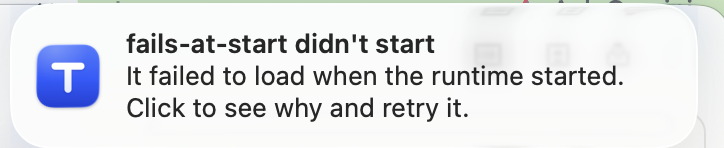
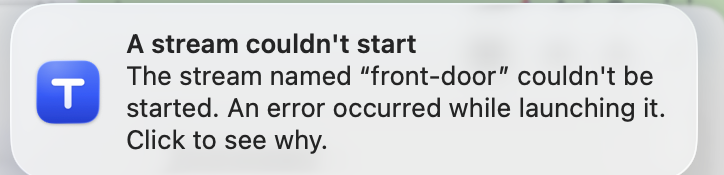
docs(proof): the plain-sentence notifications, re-verified on the installed build and the real Linux runtime

Changed region(s): [[0.0, 0.0, 1.0, 1.0], [0.0608, 0.4054, 0.1215, 0.5135]]

diff --git a/proof/README.md b/proof/README.md
@@ -25,15 +25,19 @@ Only these results count for #41. They come from the real app on a real v0.55.2 
 | Restart runtime restarts it through the service manager, and the state follows | **PASS**: launchd pid 14893 → 17828; window "up 1m" → Starting → "up less than a minute"; the runtime's uptime 1m → 0m (`04`) | **PASS**: MainPID 3785 → 4024 through `systemctl --user restart`; window "up 1m" → Starting → "up less than a minute" (`22`, `23`) |
 | Run Tatolab off stops and deregisters the runtime; on brings it back | **PASS**: off — window "Stopped", `launchctl print` no longer finds the job, nothing answers, Restart and Open logs folder disabled (`05`); on — Starting → Running, the job back under Service Management | **PASS**: off — `disabled/inactive`, Restart disabled (`24`); on — `enabled/active` |
 | Open Tatolab at login | **PASS** on the switch: on adds Tatolab to macOS's login items (System Events: "Elgato Wave Link, Rectangle, Tatolab", `06`), off removes it. **NOT VERIFIED:** the app actually opening at the next login, which needs a log-out | **NOT VERIFIED**: an unpackaged app does not offer it, and the Linux packages build on x86_64 only |
-| A stream failing notifies in plain words | **PASS**: a kept sample stream, its `.venv` moved aside, then Restart runtime pressed. The runtime listed it failed ("…its interpreter …/.venv/bin/python is gone…"); the banner read "fails-at-start didn't start — It failed to load when the runtime started. Click to see why and retry it." (`07`) | **PASS**: the same failure; dunst drew "(A) fails-at-start didn't start — It failed to load when the runtime started. Click to see why and retry it." (`26`) |
+| A stream failing notifies in plain sentences | **PASS**: a kept sample stream, its `.venv` moved aside, then Restart runtime pressed. The runtime listed it failed ("…its interpreter …/.venv/bin/python is gone…"); the banner read "A stream couldn't start — The stream named “front-door” couldn't be started. An error occurred while launching it. Click to see why." (`07`) | **PASS**: the same failure; dunst drew "(A) A stream couldn't start — The stream named “fails-at-start” couldn't be started. An error occurred while launching it. Click to see why." (`26`) |
 | Clicking it opens the stream, with the runtime's reason there | **PASS**: pressing it in Notification Center opened `fails-at-start`'s page, Failed, with the runtime's reason in its own words and Retry (`08`) | **PASS**: a real X middle-click (dunst's default action) opened its page (`28`) |
+| An update check chosen from the tray notifies in plain sentences | **PASS**: Check for Updates… chosen in the menu bar against get.tatolab.com (newest 0.54.11); the app logged `checking` → `up_to_date`, and Notification Center held "Tatolab is up to date — You have the newest version." No banner was caught on screen. **NOT VERIFIED live:** the failed-update notification, which needs a real update to fail | not run |
 | With the switch off, a failure doesn't notify | **PASS**: the same failure, 0 Tatolab notifications; with the switch back on, the repeat gave 1 | **PASS**: the app's notifications in dunst stayed 2 → 2 |
 | Appearance: Light, Dark and System, live, and kept | **PASS**: the window's mean luminance was 254 for Light and 13 for Dark (`09`); System followed macOS Light → Dark → Light live (`10`); Dark held after Quit and reopen (`11`) | **PASS** for Dark live and kept across a reload. **NOT VERIFIED:** System following the desktop (Xvfb has no colour-scheme source) |
 | Command line: the `tatolab` path and its version; `tatolab mcp` | **PASS**: `/usr/local/bin/tatolab` → the bundle's `tatolab-cli` 0.55.2 (`02`); `tatolab mcp` served the runtime's 17 tools, `describe_runtime` among them | **PASS**: `~/.local/bin/tatolab`, 0.55.2 (`25`) |
 | About: both versions, the runtime's licence | **PASS**: "Version 0.55.2 · tatolabd 0.55.2", "Runtime licensed BUSL-1.1." (`03`) | **PASS**: "Version 0.45.0 · tatolabd 0.55.2" (the unpackaged app takes `package.json`'s version) |
 
 **Found by this verification:**
-- **Fixed, at the owner's word:** the notification's body was the runtime's whole `failed_because`, a sentence written for logs. It now says the stream didn't start and to click for why. The stream's page it opens shows the runtime's reason as the runtime wrote it. Re-verified on both platforms with the rebuilt, notarized app.
+- **Fixed, at the owner's word:** every notification is now plain sentences for a person, never the runtime's or the updater's words.
+  - A failed stream reads "A stream couldn't start — The stream named “<name>” couldn't be started. An error occurred while launching it. Click to see why." The stream's page it opens shows the runtime's reason as the runtime wrote it.
+  - A failed update reads "Tatolab couldn't update — Something went wrong while updating. Open Settings to see what happened and try again." The updater's own words are in Settings.
+  - Re-verified on both platforms with the rebuilt, notarized app.
 - **Seen while reinstalling, not a defect of this PR:** reinstalling a build with the same version (0.55.2 over 0.55.2) leaves the runtime running from the replaced bundle, since the app restarts it only when its version changes. The runtime then refused a helper from the newer wheel: "engine build … but its parent is engine build …". Restart runtime fixed it, moving the build id from `…6440…` to `…eb87…`. Releases always change the version.
 - **Fixed:** with Run Tatolab off, the Login Items row said Tatolab was "listed under Allow in the Background" though launchd held no job. It now says Tatolab isn't listed. The rebuilt app was installed and the row re-checked.
 - **Runtime behaviour, not a defect:** a kept stream is reloaded at the runtime's start from its recorded graph without recompiling `stream.py`. A broken `stream.py` therefore didn't fail it, and the app correctly notified nothing.
